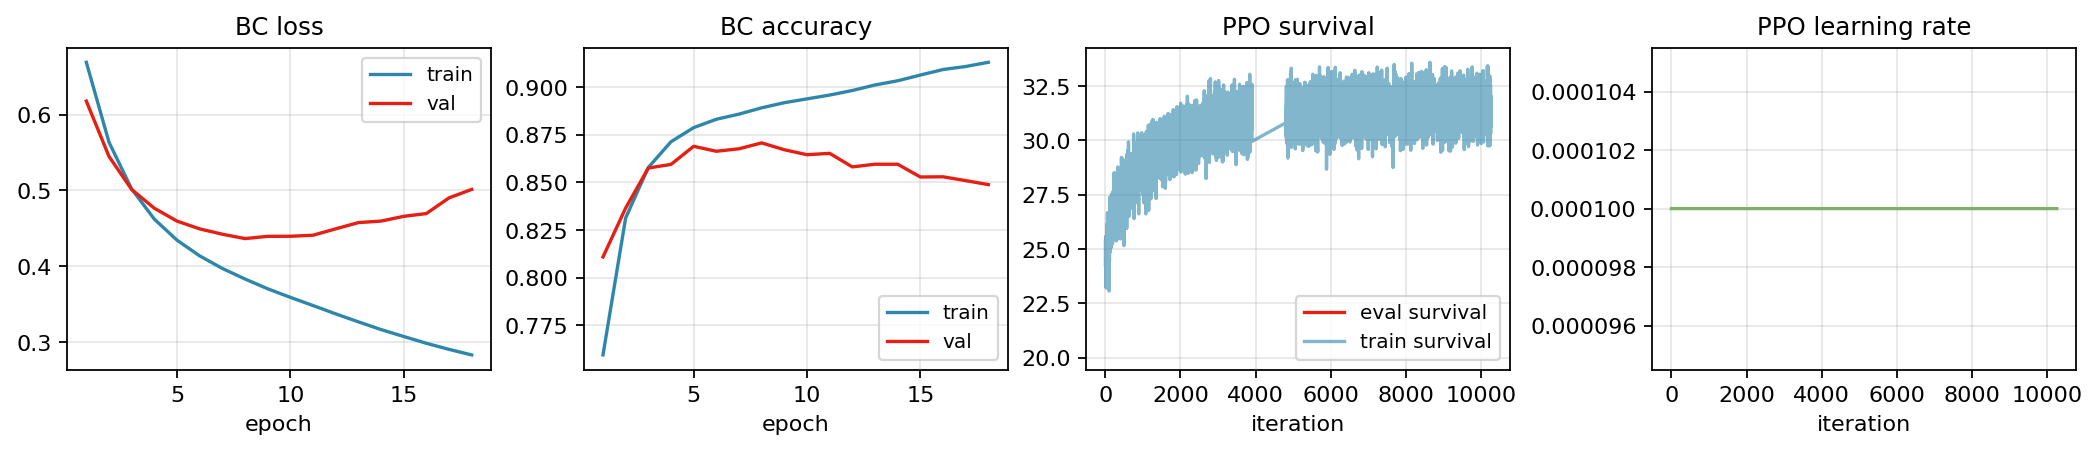
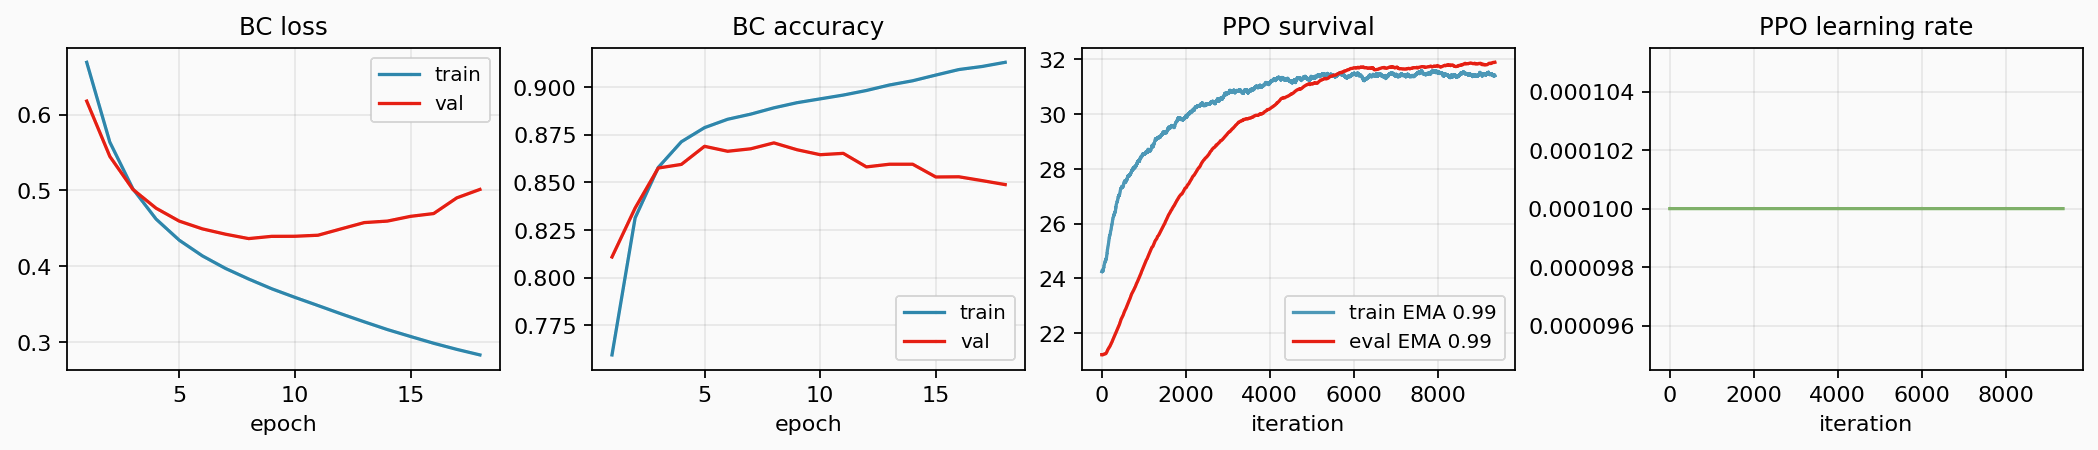
fix: regenerate presentation curves consistently

diff --git a/presentation/figures/make_curves.py b/presentation/figures/make_curves.py
@@ -1,7 +1,9 @@
 """Generate V3-deploy training curves for the presentation."""
 from pathlib import Path
+import math
 import matplotlib.pyplot as plt
 import pandas as pd
+from PIL import Image
 
 ROOT = Path(__file__).resolve().parents[2]
 V3 = ROOT / "experiments/v3_deploy"
@@ -25,6 +27,52 @@ plt.rcParams.update({
 TRAIN_C = "#2E86AB"
 VAL_C = "#E51F13"
 LR_C = "#7FB069"
+SLIDE_BG = "#FAFAFA"
+WHITE_THRESHOLD = 235
+
+
+def savefig_slide_bg(fig, path):
+    """Save and replace white/near-white pixels with Metropolis background."""
+    fig.savefig(path, bbox_inches="tight")
+    image = Image.open(path).convert("RGBA")
+    pixels = image.load()
+    replacement = tuple(int(SLIDE_BG[i:i + 2], 16) for i in (1, 3, 5))
+
+    for y in range(image.height):
+        for x in range(image.width):
+            r, g, b, a = pixels[x, y]
+            if a > 0 and r >= WHITE_THRESHOLD and g >= WHITE_THRESHOLD and b >= WHITE_THRESHOLD:
+                pixels[x, y] = (*replacement, a)
+    image.save(path)
+
+
+def cosine_lr_schedule(epochs, peak_lr=1e-3, min_lr=1e-5, total_epochs=200):
+    """Reconstruct CosineAnnealingLR values; CSV LR is rounded."""
+    values = []
+    for epoch in epochs:
+        progress = min(max(epoch / total_epochs, 0.0), 1.0)
+        cos = 0.5 * (1.0 + math.cos(math.pi * progress))
+        values.append(min_lr + (peak_lr - min_lr) * cos)
+    return values
+
+
+def transformer_lr_schedule(epochs, peak_lr=2e-3, min_lr=5e-5,
+                            total_epochs=200, warmup_epochs=5):
+    """Reconstruct the warmup+cosine schedule; CSV LR is rounded."""
+    start_factor = 1e-2
+    cosine_length = max(1, total_epochs - warmup_epochs)
+    final_ratio = min_lr / peak_lr
+    values = []
+    for epoch in epochs:
+        if epoch < warmup_epochs:
+            factor = start_factor + (1.0 - start_factor) * epoch / warmup_epochs
+        else:
+            progress = (epoch - warmup_epochs) / cosine_length
+            progress = min(max(progress, 0.0), 1.0)
+            cos = 0.5 * (1.0 + math.cos(math.pi * progress))
+            factor = final_ratio + (1.0 - final_ratio) * cos
+        values.append(peak_lr * factor)
+    return values
 
 
 def fsq_curves():
@@ -51,11 +99,11 @@ def fsq_curves():
     ax.legend()
 
     ax = axes[3]
-    ax.plot(df.epoch, df.lr, color=LR_C)
+    ax.plot(df.epoch, cosine_lr_schedule(df.epoch), color=LR_C)
     ax.set_title("Learning rate")
     ax.set_xlabel("epoch")
 
-    fig.savefig(OUT / "fsq_curves.png", bbox_inches="tight")
+    savefig_slide_bg(fig, OUT / "fsq_curves.png")
     plt.close(fig)
 
 
@@ -92,17 +140,20 @@ def transformer_curves():
     ax.legend()
 
     ax = axes[4]
-    ax.plot(df.epoch, df.lr, color=LR_C)
+    ax.plot(df.epoch, transformer_lr_schedule(df.epoch), color=LR_C)
     ax.set_title("Learning rate")
     ax.set_xlabel("epoch")
 
-    fig.savefig(OUT / "transformer_curves.png", bbox_inches="tight")
+    savefig_slide_bg(fig, OUT / "transformer_curves.png")
     plt.close(fig)
 
 
 def controller_curves():
     bc = pd.read_csv(BC_LOG)
     ppo = pd.read_csv(PPO_LOG)
+    ppo_x = range(len(ppo))
+    ppo_eval = ppo[ppo.eval_survival.notna()] if "eval_survival" in ppo.columns else None
+    ppo_eval_x = ppo_eval.index if ppo_eval is not None else None
 
     fig, axes = plt.subplots(1, 4, figsize=(13, 2.7), constrained_layout=True)
 
@@ -121,21 +172,25 @@ def controller_curves():
     ax.legend()
 
     ax = axes[2]
-    if "eval_survival" in ppo.columns:
-        ax.plot(ppo.iteration, ppo.eval_survival, color=VAL_C, label="eval survival")
     if "mean_survival" in ppo.columns:
-        ax.plot(ppo.iteration, ppo.mean_survival, color=TRAIN_C, alpha=0.6, label="train survival")
+        train_survival = pd.to_numeric(ppo.mean_survival, errors="coerce")
+        train_ema = train_survival.ewm(alpha=1 - 0.99, adjust=False).mean()
+        ax.plot(ppo_x, train_ema, color=TRAIN_C, alpha=0.85, label="train EMA 0.99")
+    if ppo_eval is not None:
+        eval_survival = pd.to_numeric(ppo_eval.eval_survival, errors="coerce")
+        eval_ema = eval_survival.ewm(alpha=1 - 0.99, adjust=False).mean()
+        ax.plot(ppo_eval_x, eval_ema, color=VAL_C, label="eval EMA 0.99")
     ax.set_title("PPO survival")
     ax.set_xlabel("iteration")
     ax.legend()
 
     ax = axes[3]
     if "lr" in ppo.columns:
-        ax.plot(ppo.iteration, ppo.lr, color=LR_C, label="PPO lr")
+        ax.plot(ppo_x, ppo.lr, color=LR_C, label="PPO lr")
     ax.set_title("PPO learning rate")
     ax.set_xlabel("iteration")
 
-    fig.savefig(OUT / "controller_curves.png", bbox_inches="tight")
+    savefig_slide_bg(fig, OUT / "controller_curves.png")
     plt.close(fig)
 
 
